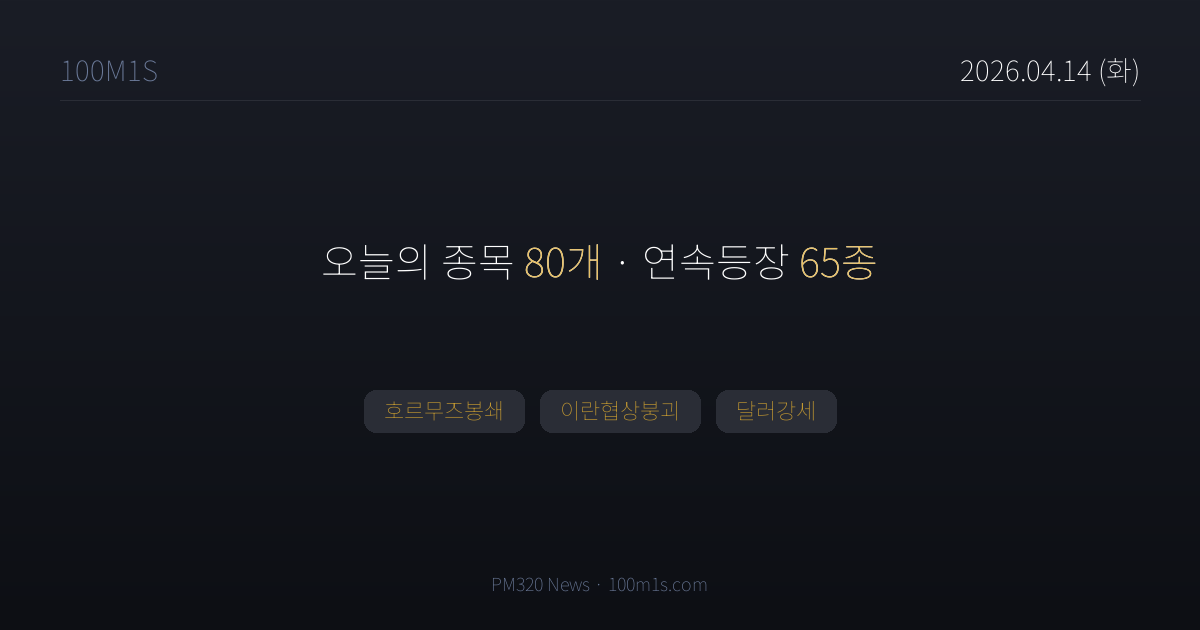
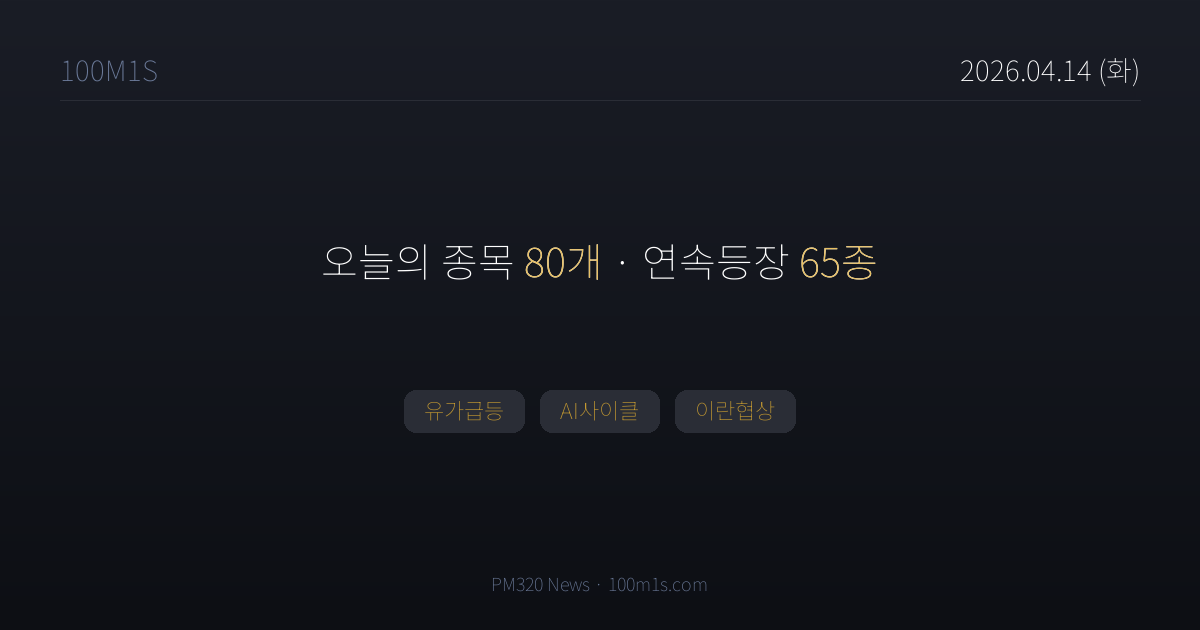
chore(news): 2026-04-14T02:41 pipeline

Changed region(s): [[0.4625, 0.6032, 0.7092, 0.6937], [0.2775, 0.6032, 0.4317, 0.6937]]

diff --git a/news/2026-04-14.html b/news/2026-04-14.html
@@ -4,7 +4,7 @@
 <meta charset="UTF-8">
 <title>4월 14일 (화) 뉴스 — 100M1S</title>
 <meta property="og:title" content="4월 14일 (화) · 종목 80개">
-<meta property="og:description" content="호르무즈봉쇄, 이란협상붕괴, 달러강세">
+<meta property="og:description" content="유가급등, AI사이클, 이란협상">
 <meta property="og:image" content="https://100m1s.com/og/2026-04-14.png">
 <meta property="og:image:width" content="1200">
 <meta property="og:image:height" content="630">
